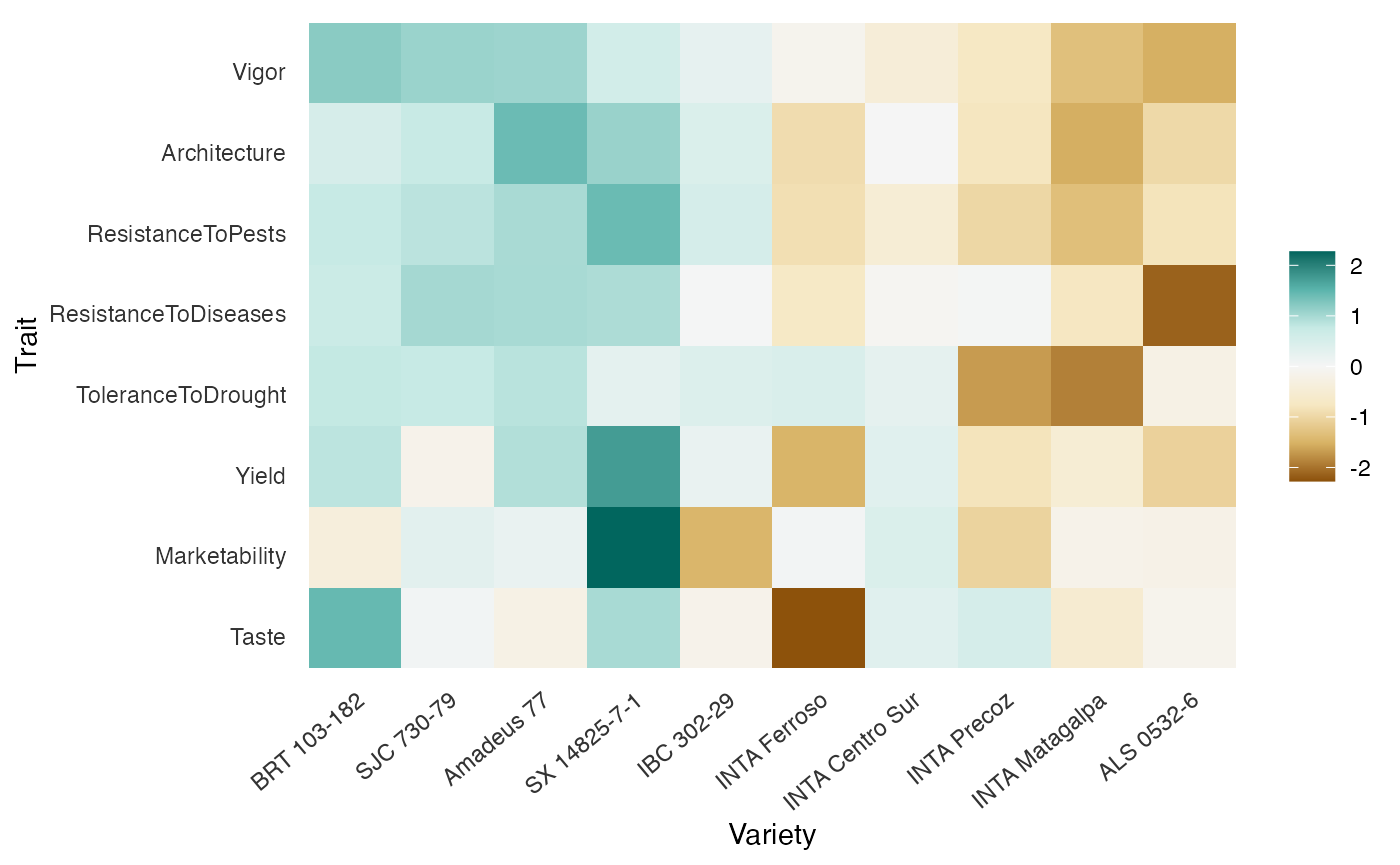
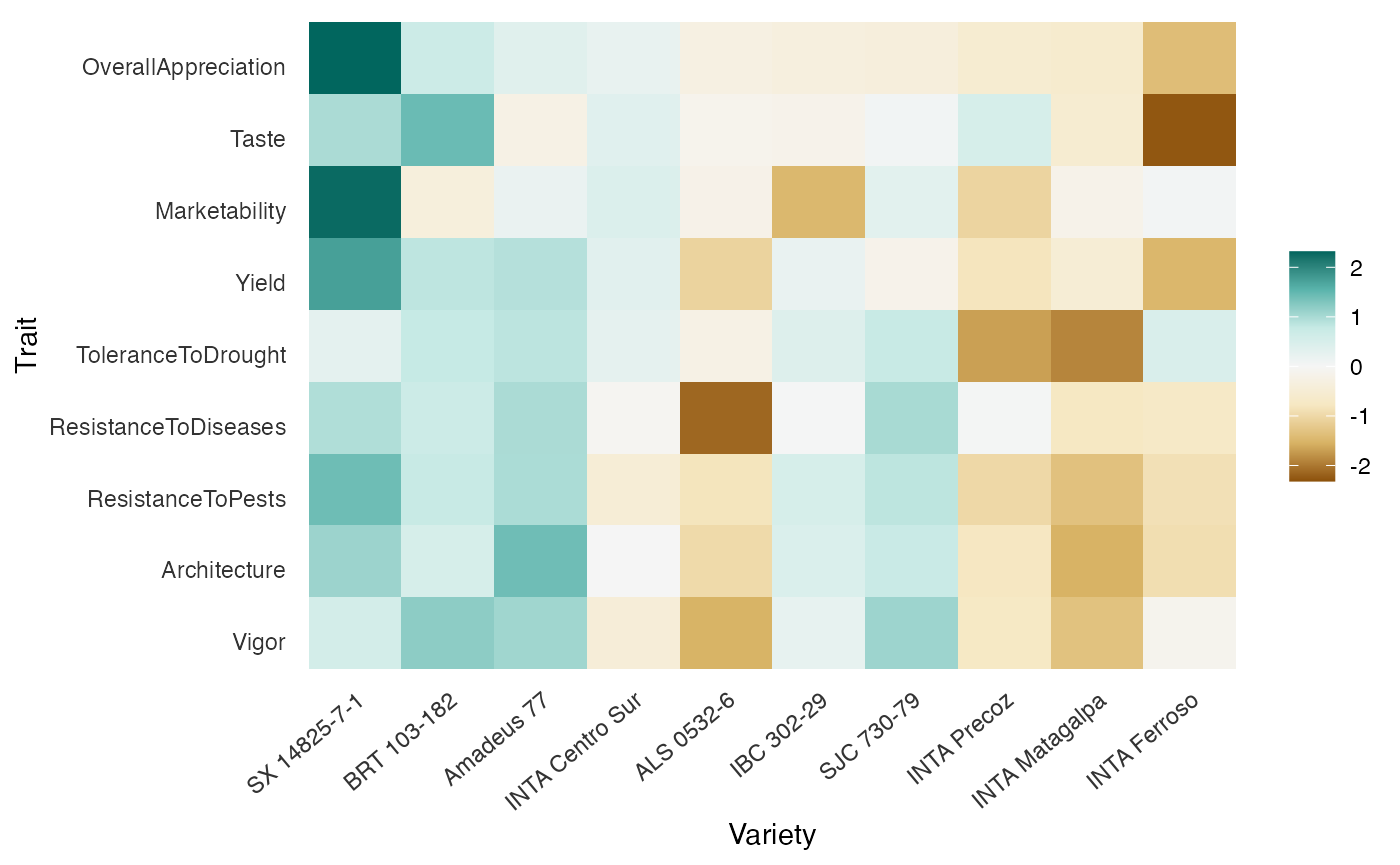
update-bean-vignette

diff --git a/docs/articles/vignette-1-trait-prioritization-and-crop-performance.html b/docs/articles/vignette-1-trait-prioritization-and-crop-performance.html
@@ -229,14 +229,42 @@ yield
 = 0.639) when assessing overall appreciation.</p>
 <pre><code><span><span class="co">##                   trait kendallTau N_effective Zvalue   Pr(&gt;|z|)</span></span>
 <span><span class="co">##                   &lt;chr&gt;      &lt;dbl&gt;       &lt;dbl&gt;  &lt;dbl&gt;      &lt;chr&gt;</span></span>
-<span><span class="co">## 1:                Vigor     0.4390     58.3120 4.8780 5.3630e-07</span></span>
 <span><span class="co">## 2:         Architecture     0.3930     58.3120 4.3720 6.1534e-06</span></span>
-<span><span class="co">## 3:    ResistanceToPests     0.4630     58.3120 5.1440 1.3446e-07</span></span>
-<span><span class="co">## 4: ResistanceToDiseases     0.4490     58.3120 4.9980 2.9022e-07</span></span>
 <span><span class="co">## 5:   ToleranceToDrought     0.4110     58.3120 4.5720 2.4187e-06</span></span>
-<span><span class="co">## 6:                Yield     0.7490     58.3120 8.3250 4.2193e-17</span></span>
+<span><span class="co">## 1:                Vigor     0.4390     58.3120 4.8780 5.3630e-07</span></span>
+<span><span class="co">## 4: ResistanceToDiseases     0.4490     58.3120 4.9980 2.9022e-07</span></span>
+<span><span class="co">## 3:    ResistanceToPests     0.4630     58.3120 5.1440 1.3446e-07</span></span>
 <span><span class="co">## 7:        Marketability     0.6390     58.3120 7.1000 6.2167e-13</span></span>
-<span><span class="co">## 8:                Taste     0.6530     58.3120 7.2600 1.9329e-13</span></span></code></pre>
+<span><span class="co">## 8:                Taste     0.6530     58.3120 7.2600 1.9329e-13</span></span>
+<span><span class="co">## 6:                Yield     0.7490     58.3120 8.3250 4.2193e-17</span></span></code></pre>
+<p>We can visualize the distances and the distribution of the kendall
+correlation coefficients. For that we use the function
+<code>kendallTau_boostrap()</code> which resamples the data using a
+bootstrapping approach to draw an uniform distribution in the data.</p>
+<div class="sourceCode" id="cb6"><pre class="downlit sourceCode r">
+<code class="sourceCode R"><span><span class="co"># lapply the bootstrap function and draw 50 data points</span></span>
+<span><span class="va">kendall</span> <span class="op">=</span> <span class="fu"><a href="https://rdrr.io/r/base/lapply.html" class="external-link">lapply</a></span><span class="op">(</span><span class="va">R</span><span class="op">[</span><span class="op">-</span><span class="va">baseline</span><span class="op">]</span>, <span class="kw">function</span><span class="op">(</span><span class="va">x</span><span class="op">)</span><span class="op">{</span></span>
+<span>  <span class="fu"><a href="../reference/kendallTau.html">kendallTau_bootstrap</a></span><span class="op">(</span><span class="va">x</span>, </span>
+<span>                       <span class="va">R</span><span class="op">[[</span><span class="va">baseline</span><span class="op">]</span><span class="op">]</span>,</span>
+<span>                       nboot <span class="op">=</span> <span class="fl">50</span>,</span>
+<span>                       seed <span class="op">=</span> <span class="fl">1206</span><span class="op">)</span></span>
+<span><span class="op">}</span><span class="op">)</span></span>
+<span></span>
+<span><span class="co"># put it in a data.frame</span></span>
+<span><span class="va">kendall</span> <span class="op">=</span> <span class="fu"><a href="https://rdrr.io/r/base/data.frame.html" class="external-link">data.frame</a></span><span class="op">(</span>trait <span class="op">=</span> <span class="fu"><a href="https://rdrr.io/r/base/rep.html" class="external-link">rep</a></span><span class="op">(</span><span class="va">traits</span><span class="op">[</span><span class="op">-</span><span class="va">baseline</span><span class="op">]</span>, each <span class="op">=</span> <span class="fl">50</span><span class="op">)</span>,</span>
+<span>                     kendallTau <span class="op">=</span> <span class="fu"><a href="https://rdrr.io/r/base/unlist.html" class="external-link">unlist</a></span><span class="op">(</span><span class="va">kendall</span><span class="op">)</span><span class="op">)</span></span>
+<span></span>
+<span><span class="co"># define levels of traits to sort them out from highest to lowest kendall tau</span></span>
+<span><span class="va">lvls</span> <span class="op">=</span> <span class="fu"><a href="https://rdrr.io/r/base/unique.html" class="external-link">unique</a></span><span class="op">(</span><span class="va">kendall</span><span class="op">$</span><span class="va">trait</span><span class="op">[</span><span class="fu"><a href="https://rdrr.io/r/base/order.html" class="external-link">order</a></span><span class="op">(</span><span class="va">kendall</span><span class="op">$</span><span class="va">kendallTau</span><span class="op">)</span><span class="op">]</span><span class="op">)</span></span>
+<span></span>
+<span><span class="va">kendall</span><span class="op">$</span><span class="va">trait</span> <span class="op">=</span> <span class="fu"><a href="https://rdrr.io/r/base/factor.html" class="external-link">factor</a></span><span class="op">(</span><span class="va">kendall</span><span class="op">$</span><span class="va">trait</span>, levels <span class="op">=</span> <span class="va">lvls</span><span class="op">)</span></span>
+<span></span>
+<span><span class="co"># plot the coefficients </span></span>
+<span><span class="fu"><a href="https://ggplot2.tidyverse.org/reference/ggplot.html" class="external-link">ggplot</a></span><span class="op">(</span><span class="va">kendall</span>, <span class="fu"><a href="https://ggplot2.tidyverse.org/reference/aes.html" class="external-link">aes</a></span><span class="op">(</span>y <span class="op">=</span> <span class="va">trait</span>, x <span class="op">=</span> <span class="va">kendallTau</span><span class="op">)</span><span class="op">)</span> <span class="op">+</span></span>
+<span>  <span class="fu"><a href="https://ggplot2.tidyverse.org/reference/geom_boxplot.html" class="external-link">geom_boxplot</a></span><span class="op">(</span><span class="op">)</span> <span class="op">+</span></span>
+<span>  <span class="fu"><a href="https://ggplot2.tidyverse.org/reference/labs.html" class="external-link">labs</a></span><span class="op">(</span>y <span class="op">=</span> <span class="st">""</span>, x <span class="op">=</span> <span class="st">"Correlation with the 'Overall appreciation'"</span><span class="op">)</span> <span class="op">+</span></span>
+<span>  <span class="fu"><a href="https://ggplot2.tidyverse.org/reference/ggtheme.html" class="external-link">theme_minimal</a></span><span class="op">(</span><span class="op">)</span></span></code></pre></div>
+<p><img src="vignette-1-trait-prioritization-and-crop-performance_files/figure-html/kendall_boost-1.png" width="700"></p>
 </div>
 <div class="section level2">
 <h2 id="performance-of-varieties-across-traits">Performance of varieties across traits<a class="anchor" aria-label="anchor" href="#performance-of-varieties-across-traits"></a>
@@ -245,7 +273,7 @@ yield
 <code><a href="https://hturner.github.io/PlackettLuce/reference/PlackettLuce.html" class="external-link">PlackettLuce()</a></code> from the package of the same name. This
 enables us to continue analyzing the trial data using other functions
 available in the gosset package.</p>
-<div class="sourceCode" id="cb6"><pre class="downlit sourceCode r">
+<div class="sourceCode" id="cb7"><pre class="downlit sourceCode r">
 <code class="sourceCode R"><span><span class="va">mod</span> <span class="op">=</span> <span class="fu"><a href="https://rdrr.io/r/base/lapply.html" class="external-link">lapply</a></span><span class="op">(</span><span class="va">R</span>, <span class="va">PlackettLuce</span><span class="op">)</span></span></code></pre></div>
 <p>The <code><a href="../reference/worth_map.html">worth_map()</a></code> function provides a visual tool to
 assess and compare variety performance across different traits. The
@@ -253,10 +281,10 @@ values represented in a worth map are <em>log-worth</em> estimates. From
 a breeder or product developer perspective, the function
 <code><a href="../reference/worth_map.html">worth_map()</a></code> is a valuable tool for identifying variety
 performance across multiple traits and selecting crossing materials.</p>
-<div class="sourceCode" id="cb7"><pre class="downlit sourceCode r">
-<code class="sourceCode R"><span><span class="fu"><a href="../reference/worth_map.html">worth_map</a></span><span class="op">(</span><span class="va">mod</span><span class="op">[</span><span class="op">-</span><span class="va">baseline</span><span class="op">]</span>,</span>
-<span>          labels <span class="op">=</span> <span class="va">traits</span><span class="op">[</span><span class="op">-</span><span class="va">baseline</span><span class="op">]</span>,</span>
-<span>          ref <span class="op">=</span> <span class="st">"Amadeus 77"</span><span class="op">)</span> <span class="op">+</span></span>
+<div class="sourceCode" id="cb8"><pre class="downlit sourceCode r">
+<code class="sourceCode R"><span><span class="fu"><a href="../reference/worth_map.html">worth_map</a></span><span class="op">(</span><span class="va">mod</span>,</span>
+<span>          labels <span class="op">=</span> <span class="va">traits</span>,</span>
+<span>          labels.order <span class="op">=</span> <span class="fu"><a href="https://rdrr.io/r/base/rev.html" class="external-link">rev</a></span><span class="op">(</span><span class="va">traits</span><span class="op">)</span><span class="op">)</span> <span class="op">+</span></span>
 <span>  <span class="fu"><a href="https://ggplot2.tidyverse.org/reference/labs.html" class="external-link">labs</a></span><span class="op">(</span>x <span class="op">=</span> <span class="st">"Variety"</span>,</span>
 <span>       y <span class="op">=</span> <span class="st">"Trait"</span><span class="op">)</span></span></code></pre></div>
 <p><img src="vignette-1-trait-prioritization-and-crop-performance_files/figure-html/worthmap-1.png" width="700"></p>
@@ -277,7 +305,7 @@ al. (2019) <span class="citation">[10]</span>, de Sousa et al. (2021)
 <p>The CHIRPS data is requested via the <code>chirps</code> package, and
 the returned data should be formatted as a matrix. Note that this
 process may take several minutes to complete.</p>
-<div class="sourceCode" id="cb8"><pre class="downlit sourceCode r">
+<div class="sourceCode" id="cb9"><pre class="downlit sourceCode r">
 <code class="sourceCode R"><span><span class="va">dates</span> <span class="op">=</span> <span class="fu"><a href="https://rdrr.io/r/base/c.html" class="external-link">c</a></span><span class="op">(</span><span class="fu"><a href="https://rdrr.io/r/base/Extremes.html" class="external-link">min</a></span><span class="op">(</span><span class="va">covar</span><span class="op">[</span>, <span class="st">"planting_date"</span><span class="op">]</span><span class="op">)</span>,</span>
 <span>           <span class="fu"><a href="https://rdrr.io/r/base/Extremes.html" class="external-link">max</a></span><span class="op">(</span><span class="va">covar</span><span class="op">[</span>, <span class="st">"planting_date"</span><span class="op">]</span><span class="op">)</span> <span class="op">+</span> <span class="fl">70</span><span class="op">)</span></span>
 <span></span>
@@ -288,7 +316,7 @@ process may take several minutes to complete.</p>
 <p>We compute the rainfall indices for the period from the planting date
 to the first 45 days of plant growth using the <code><a href="https://agrdatasci.github.io/climatrends/reference/rainfall.html" class="external-link">rainfall()</a></code>
 function from the climatrends package <span class="citation">[13]</span>.</p>
-<div class="sourceCode" id="cb9"><pre class="downlit sourceCode r">
+<div class="sourceCode" id="cb10"><pre class="downlit sourceCode r">
 <code class="sourceCode R"><span><span class="va">newnames</span> <span class="op">=</span> <span class="fu"><a href="https://rdrr.io/r/base/dimnames.html" class="external-link">dimnames</a></span><span class="op">(</span><span class="va">chirps</span><span class="op">)</span><span class="op">[[</span><span class="fl">2</span><span class="op">]</span><span class="op">]</span></span>
 <span><span class="va">newnames</span> <span class="op">=</span> <span class="fu"><a href="https://rdrr.io/r/base/grep.html" class="external-link">gsub</a></span><span class="op">(</span><span class="st">"chirps-v2.0."</span>, <span class="st">""</span>, <span class="va">newnames</span><span class="op">)</span></span>
 <span><span class="va">newnames</span> <span class="op">=</span> <span class="fu"><a href="https://rdrr.io/r/base/grep.html" class="external-link">gsub</a></span><span class="op">(</span><span class="st">"[.]"</span>, <span class="st">"-"</span>, <span class="va">newnames</span><span class="op">)</span></span>
@@ -300,7 +328,7 @@ function from the climatrends package <span class="citation">[13]</span>.</p>
 ‘grouped_rankings’ object. This is done using the <code><a href="https://hturner.github.io/PlackettLuce/reference/group.html" class="external-link">group()</a></code>
 function from the PlackettLuce package. For this example, we retain only
 the rankings corresponding to yield.</p>
-<div class="sourceCode" id="cb10"><pre class="downlit sourceCode r">
+<div class="sourceCode" id="cb11"><pre class="downlit sourceCode r">
 <code class="sourceCode R"><span><span class="va">yield</span> <span class="op">=</span> <span class="fu"><a href="https://rdrr.io/r/base/which.html" class="external-link">which</a></span><span class="op">(</span><span class="fu"><a href="https://rdrr.io/r/base/grep.html" class="external-link">grepl</a></span><span class="op">(</span><span class="st">"Yield"</span>, <span class="va">traits</span><span class="op">)</span><span class="op">)</span></span>
 <span></span>
 <span><span class="va">G</span> <span class="op">=</span> <span class="fu"><a href="https://hturner.github.io/PlackettLuce/reference/group.html" class="external-link">group</a></span><span class="op">(</span><span class="va">R</span><span class="op">[[</span><span class="va">yield</span><span class="op">]</span><span class="op">]</span>, index <span class="op">=</span> <span class="fl">1</span><span class="op">:</span><span class="fu"><a href="https://rdrr.io/r/base/length.html" class="external-link">length</a></span><span class="op">(</span><span class="va">R</span><span class="op">[[</span><span class="va">yield</span><span class="op">]</span><span class="op">]</span><span class="op">)</span><span class="op">)</span></span>
@@ -311,7 +339,7 @@ the rankings corresponding to yield.</p>
 <span><span class="co">##                      4                      5                      6 </span></span>
 <span><span class="co">## "BRT 103-182 &gt; IB ..." "BRT 103-182 &gt; IB ..." "BRT 103-182 &gt; AL ..."</span></span></code></pre>
 <p>Now we fit a Plackett-Luce tree with the climate covariates.</p>
-<div class="sourceCode" id="cb12"><pre class="downlit sourceCode r">
+<div class="sourceCode" id="cb13"><pre class="downlit sourceCode r">
 <code class="sourceCode R"><span><span class="va">pldG</span> <span class="op">=</span> <span class="fu"><a href="https://rdrr.io/r/base/cbind.html" class="external-link">cbind</a></span><span class="op">(</span><span class="va">G</span>, <span class="va">rain</span><span class="op">)</span></span>
 <span></span>
 <span><span class="va">tree</span> <span class="op">=</span> <span class="fu"><a href="https://hturner.github.io/PlackettLuce/reference/pltree.html" class="external-link">pltree</a></span><span class="op">(</span><span class="va">G</span> <span class="op">~</span> <span class="va">Rtotal</span>, data <span class="op">=</span> <span class="va">pldG</span>, alpha <span class="op">=</span> <span class="fl">0.1</span><span class="op">)</span></span>
@@ -345,21 +373,21 @@ the rankings corresponding to yield.</p>
 <code><a href="../reference/node_labels.html">top_items()</a></code> can be used to identify the splitting variables
 in the tree, the rules applied at each split, and the top-performing
 items in each node.</p>
-<div class="sourceCode" id="cb14"><pre class="downlit sourceCode r">
+<div class="sourceCode" id="cb15"><pre class="downlit sourceCode r">
 <code class="sourceCode R"><span><span class="fu"><a href="../reference/node_labels.html">node_labels</a></span><span class="op">(</span><span class="va">tree</span><span class="op">)</span></span></code></pre></div>
 <pre><code><span><span class="co">## [1] "Rtotal"</span></span></code></pre>
-<div class="sourceCode" id="cb16"><pre class="downlit sourceCode r">
+<div class="sourceCode" id="cb17"><pre class="downlit sourceCode r">
 <code class="sourceCode R"><span><span class="fu"><a href="../reference/node_labels.html">node_rules</a></span><span class="op">(</span><span class="va">tree</span><span class="op">)</span></span></code></pre></div>
 <pre><code><span><span class="co">##   node                      rules</span></span>
 <span><span class="co">## 1    2 Rtotal &lt;= 193.815301895142</span></span>
 <span><span class="co">## 2    3  Rtotal &gt; 193.815301895142</span></span></code></pre>
-<div class="sourceCode" id="cb18"><pre class="downlit sourceCode r">
+<div class="sourceCode" id="cb19"><pre class="downlit sourceCode r">
 <code class="sourceCode R"><span><span class="fu"><a href="../reference/node_labels.html">top_items</a></span><span class="op">(</span><span class="va">tree</span>, top <span class="op">=</span> <span class="fl">3</span><span class="op">)</span></span></code></pre></div>
 <pre><code><span><span class="co">##          Node2        Node3</span></span>
 <span><span class="co">## 1  BRT 103-182   ALS 0532-6</span></span>
 <span><span class="co">## 2 SX 14825-7-1 SX 14825-7-1</span></span>
 <span><span class="co">## 3   IBC 302-29   Amadeus 77</span></span></code></pre>
-<div class="sourceCode" id="cb20"><pre class="downlit sourceCode r">
+<div class="sourceCode" id="cb21"><pre class="downlit sourceCode r">
 <code class="sourceCode R"><span><span class="fu"><a href="https://rdrr.io/r/graphics/plot.default.html" class="external-link">plot</a></span><span class="op">(</span><span class="va">tree</span>, ref <span class="op">=</span> <span class="st">"Amadeus 77"</span><span class="op">)</span></span></code></pre></div>
 <p><img src="vignette-1-trait-prioritization-and-crop-performance_files/figure-html/node_info2-1.png" width="700"></p>
 </div>
@@ -374,7 +402,7 @@ probability of outperforming a variety check (Amadeus 77). For
 simplicity, we present only the varieties with a reliability score
 <math display="inline" xmlns="http://www.w3.org/1998/Math/MathML"><semantics><mo>≥</mo><annotation encoding="application/x-tex">\geq</annotation></semantics></math>
 0.5.</p>
-<div class="sourceCode" id="cb21"><pre class="downlit sourceCode r">
+<div class="sourceCode" id="cb22"><pre class="downlit sourceCode r">
 <code class="sourceCode R"><span><span class="fu"><a href="../reference/reliability.html">reliability</a></span><span class="op">(</span><span class="va">tree</span>, ref <span class="op">=</span> <span class="st">"Amadeus 77"</span><span class="op">)</span></span></code></pre></div>
 <pre><code><span><span class="co">##      node         item reliability reliabilitySE  worth</span></span>
 <span><span class="co">##     &lt;int&gt;        &lt;chr&gt;       &lt;dbl&gt;         &lt;dbl&gt;  &lt;dbl&gt;</span></span>
@@ -413,7 +441,7 @@ the method proposed by Bland and Altman (1986) <span class="citation">[16]</span
 different measures. Here, we compare overall appreciation and yield. If
 both measures completely agree, all the varieties should be centered at
 0 on the Y-axis.</p>
-<div class="sourceCode" id="cb23"><pre class="downlit sourceCode r">
+<div class="sourceCode" id="cb24"><pre class="downlit sourceCode r">
 <code class="sourceCode R"><span><span class="va">Overall</span> <span class="op">=</span> <span class="fu"><a href="https://hturner.github.io/PlackettLuce/reference/PlackettLuce.html" class="external-link">PlackettLuce</a></span><span class="op">(</span><span class="va">R</span><span class="op">[[</span><span class="va">baseline</span><span class="op">]</span><span class="op">]</span><span class="op">)</span></span>
 <span><span class="va">Yield</span> <span class="op">=</span> <span class="fu"><a href="https://hturner.github.io/PlackettLuce/reference/PlackettLuce.html" class="external-link">PlackettLuce</a></span><span class="op">(</span><span class="va">R</span><span class="op">[[</span><span class="va">yield</span><span class="op">]</span><span class="op">]</span><span class="op">)</span></span>
 <span></span>

diff --git a/docs/reference/kendallTau.html b/docs/reference/kendallTau.html
@@ -6,7 +6,9 @@ hypothesis test for statistical dependence based on the tau coefficient.
 The 'kendallTau' function applies the &quot;kendall&quot; method from 'stats::cor'
 with some previous treatment in the data, such as converting floating numbers
 into ranks (from the higher being the first and negative being the last)
-and the possibility to remove zeros from incomplete ranks"><meta property="og:image" content="/logo.png"><!-- mathjax --><script src="https://cdnjs.cloudflare.com/ajax/libs/mathjax/2.7.5/MathJax.js" integrity="sha256-nvJJv9wWKEm88qvoQl9ekL2J+k/RWIsaSScxxlsrv8k=" crossorigin="anonymous"></script><script src="https://cdnjs.cloudflare.com/ajax/libs/mathjax/2.7.5/config/TeX-AMS-MML_HTMLorMML.js" integrity="sha256-84DKXVJXs0/F8OTMzX4UR909+jtl4G7SPypPavF+GfA=" crossorigin="anonymous"></script><!--[if lt IE 9]>
+and the possibility to remove zeros from incomplete ranks
+Perform a pairwise permutation test to assess statistical differences
+in Kendall's Tau correlation between two or more groups."><meta property="og:image" content="/logo.png"><!-- mathjax --><script src="https://cdnjs.cloudflare.com/ajax/libs/mathjax/2.7.5/MathJax.js" integrity="sha256-nvJJv9wWKEm88qvoQl9ekL2J+k/RWIsaSScxxlsrv8k=" crossorigin="anonymous"></script><script src="https://cdnjs.cloudflare.com/ajax/libs/mathjax/2.7.5/config/TeX-AMS-MML_HTMLorMML.js" integrity="sha256-84DKXVJXs0/F8OTMzX4UR909+jtl4G7SPypPavF+GfA=" crossorigin="anonymous"></script><!--[if lt IE 9]>
 <script src="https://oss.maxcdn.com/html5shiv/3.7.3/html5shiv.min.js"></script>
 <script src="https://oss.maxcdn.com/respond/1.4.2/respond.min.js"></script>
 <![endif]--></head><body data-spy="scroll" data-target="#toc">
@@ -64,7 +66,7 @@ and the possibility to remove zeros from incomplete ranks"><meta property="og:im
   <div class="col-md-9 contents">
     <div class="page-header">
     <h1>Kendall rank correlation coefficient</h1>
-    <small class="dont-index">Source: <a href="https://github.com/agrdatasci/gosset/blob/HEAD/R/kendallTau.R" class="external-link"><code>R/kendallTau.R</code></a></small>
+    <small class="dont-index">Source: <a href="https://github.com/agrdatasci/gosset/blob/HEAD/R/kendallTau.R" class="external-link"><code>R/kendallTau.R</code></a>, <a href="https://github.com/agrdatasci/gosset/blob/HEAD/R/kendall_permute.R" class="external-link"><code>R/kendall_permute.R</code></a></small>
     <div class="hidden name"><code>kendallTau.Rd</code></div>
     </div>
 
@@ -77,6 +79,8 @@ The 'kendallTau' function applies the "kendall" method from 'stats::cor'
 with some previous treatment in the data, such as converting floating numbers
 into ranks (from the higher being the first and negative being the last)
 and the possibility to remove zeros from incomplete ranks</p>
+<p>Perform a pairwise permutation test to assess statistical differences
+in Kendall's Tau correlation between two or more groups.</p>
     </div>
 
     <div id="ref-usage">
@@ -95,7 +99,11 @@ and the possibility to remove zeros from incomplete ranks</p>
 <span><span class="fu">kendallTau</span><span class="op">(</span><span class="va">x</span>, <span class="va">y</span>, <span class="va">...</span><span class="op">)</span></span>
 <span></span>
 <span><span class="co"># S3 method for class 'paircomp'</span></span>
-<span><span class="fu">kendallTau</span><span class="op">(</span><span class="va">x</span>, <span class="va">y</span>, <span class="va">...</span><span class="op">)</span></span></code></pre></div>
+<span><span class="fu">kendallTau</span><span class="op">(</span><span class="va">x</span>, <span class="va">y</span>, <span class="va">...</span><span class="op">)</span></span>
+<span></span>
+<span><span class="fu">kendallTau_bootstrap</span><span class="op">(</span><span class="va">x</span>, <span class="va">y</span>, nboot <span class="op">=</span> <span class="fl">100</span>, seed <span class="op">=</span> <span class="cn">NULL</span>, <span class="va">...</span><span class="op">)</span></span>
+<span></span>
+<span><span class="fu">kendallTau_permute</span><span class="op">(</span><span class="va">x</span>, <span class="va">y</span>, <span class="va">split</span>, n.permutations <span class="op">=</span> <span class="fl">500</span><span class="op">)</span></span></code></pre></div>
     </div>
 
     <div id="arguments">
@@ -119,11 +127,29 @@ and the possibility to remove zeros from incomplete ranks</p>
 
 
 <dt id="arg-na-omit">na.omit<a class="anchor" aria-label="anchor" href="#arg-na-omit"></a></dt>
-<dd><p>logical, if <code>TRUE</code> ignores entries with kendall = NA when computing the average</p></dd>
+<dd><p>logical, if <code>TRUE</code> ignores entries with kendall = NA
+when computing the average</p></dd>
 
 
 <dt id="arg--">...<a class="anchor" aria-label="anchor" href="#arg--"></a></dt>
 <dd><p>further arguments affecting the Kendall tau produced. See details</p></dd>
+
+
+<dt id="arg-nboot">nboot<a class="anchor" aria-label="anchor" href="#arg-nboot"></a></dt>
+<dd><p>integer, the size of the bootstrap sample</p></dd>
+
+
+<dt id="arg-seed">seed<a class="anchor" aria-label="anchor" href="#arg-seed"></a></dt>
+<dd><p>integer, the seed for random number generation. If NULL (the default),
+gosset will set the seed randomly</p></dd>
+
+
+<dt id="arg-split">split<a class="anchor" aria-label="anchor" href="#arg-split"></a></dt>
+<dd><p>a vector indicating the splitting rule for the test</p></dd>
+
+
+<dt id="arg-n-permutations">n.permutations<a class="anchor" aria-label="anchor" href="#arg-n-permutations"></a></dt>
+<dd><p>an integer, the number of permutations to perform</p></dd>
 
 </dl></div>
     <div id="value">
@@ -131,7 +157,14 @@ and the possibility to remove zeros from incomplete ranks</p>
     <p>The Kendall correlation coefficient and the Effective N, which
 is the equivalent N needed if all items were compared to all items.
 Used for significance testing.</p>
-    </div>
+<p>A data.frame containing:</p>
+<dl><dt>observed_diff</dt>
+<dd><p>observed absolute differences in Kendall's tau for all group pairs.</p></dd>
+
+<dt>p_values</dt>
+<dd><p>p-values from the permutation test for all group pairs.</p></dd>
+
+</dl></div>
     <div id="references">
     <h2>References</h2>
     <p>Kendall M. G. (1938). Biometrika, 30(1–2), 81–93.
@@ -140,6 +173,7 @@ Used for significance testing.</p>
     <div id="see-also">
     <h2>See also</h2>
     <div class="dont-index"><p><code><a href="https://rdrr.io/r/stats/cor.html" class="external-link">cor</a></code></p>
+<p><code>kendallTau</code></p>
 <p>Other goodness-of-fit functions:
 <code><a href="kendallW.html">kendallW</a>()</code>,
 <code><a href="pseudoR2.html">pseudoR2</a>()</code></p></div>
@@ -147,6 +181,7 @@ Used for significance testing.</p>
     <div id="author">
     <h2>Author</h2>
     <p>Kauê de Sousa and Jacob van Etten</p>
+<p>Kauê de Sousa</p>
     </div>
 
     <div id="ref-examples">
@@ -201,7 +236,31 @@ Used for significance testing.</p>
 <span><span class="fu">kendallTau</span><span class="op">(</span><span class="va">R</span>, <span class="va">R2</span>, average <span class="op">=</span> <span class="cn">TRUE</span><span class="op">)</span></span>
 <span></span>
 <span><span class="fu">kendallTau</span><span class="op">(</span><span class="va">R</span>, <span class="va">R2</span>, average <span class="op">=</span> <span class="cn">TRUE</span>, na.omit <span class="op">=</span> <span class="cn">TRUE</span><span class="op">)</span></span>
-<span></span></code></pre></div>
+<span></span>
+<span><span class="kw">if</span> <span class="op">(</span><span class="cn">FALSE</span><span class="op">)</span> <span class="op">{</span> <span class="co"># interactive()</span></span>
+<span><span class="fu"><a href="https://rdrr.io/r/base/Random.html" class="external-link">set.seed</a></span><span class="op">(</span><span class="fl">42</span><span class="op">)</span></span>
+<span><span class="va">x</span> <span class="op">=</span> <span class="fu"><a href="https://rdrr.io/r/stats/Normal.html" class="external-link">rnorm</a></span><span class="op">(</span><span class="fl">100</span><span class="op">)</span></span>
+<span><span class="va">y</span> <span class="op">=</span> <span class="fu"><a href="https://rdrr.io/r/stats/Normal.html" class="external-link">rnorm</a></span><span class="op">(</span><span class="fl">100</span><span class="op">)</span></span>
+<span><span class="va">split</span> <span class="op">=</span> <span class="fu"><a href="https://rdrr.io/r/base/rep.html" class="external-link">rep</a></span><span class="op">(</span><span class="fu"><a href="https://rdrr.io/r/base/c.html" class="external-link">c</a></span><span class="op">(</span><span class="st">"Group1"</span>, <span class="st">"Group2"</span>, <span class="st">"Group3"</span><span class="op">)</span>, length.out <span class="op">=</span> <span class="fl">100</span><span class="op">)</span></span>
+<span><span class="fu">kendallTau_permute</span><span class="op">(</span><span class="va">x</span>, <span class="va">y</span>, <span class="va">split</span><span class="op">)</span></span>
+<span></span>
+<span><span class="fu"><a href="https://rdrr.io/r/utils/data.html" class="external-link">data</a></span><span class="op">(</span><span class="st">"breadwheat"</span>, package <span class="op">=</span> <span class="st">"gosset"</span><span class="op">)</span></span>
+<span></span>
+<span><span class="va">x</span> <span class="op">=</span> <span class="fu"><a href="rank_tricot.html">rank_tricot</a></span><span class="op">(</span><span class="va">breadwheat</span>, </span>
+<span>                items <span class="op">=</span> <span class="fu"><a href="https://rdrr.io/r/base/paste.html" class="external-link">paste0</a></span><span class="op">(</span><span class="st">"variety_"</span>, <span class="va">letters</span><span class="op">[</span><span class="fl">1</span><span class="op">:</span><span class="fl">3</span><span class="op">]</span><span class="op">)</span>,</span>
+<span>                input <span class="op">=</span> <span class="fu"><a href="https://rdrr.io/r/base/c.html" class="external-link">c</a></span><span class="op">(</span><span class="st">"yield_best"</span>, <span class="st">"yield_worst"</span><span class="op">)</span>,</span>
+<span>                validate.rankings <span class="op">=</span> <span class="cn">TRUE</span><span class="op">)</span></span>
+<span></span>
+<span><span class="va">y</span> <span class="op">=</span> <span class="fu"><a href="rank_tricot.html">rank_tricot</a></span><span class="op">(</span><span class="va">breadwheat</span>, </span>
+<span>                items <span class="op">=</span> <span class="fu"><a href="https://rdrr.io/r/base/paste.html" class="external-link">paste0</a></span><span class="op">(</span><span class="st">"variety_"</span>, <span class="va">letters</span><span class="op">[</span><span class="fl">1</span><span class="op">:</span><span class="fl">3</span><span class="op">]</span><span class="op">)</span>,</span>
+<span>                input <span class="op">=</span> <span class="fu"><a href="https://rdrr.io/r/base/c.html" class="external-link">c</a></span><span class="op">(</span><span class="st">"overall_best"</span>, <span class="st">"overall_worst"</span><span class="op">)</span>,</span>
+<span>                validate.rankings <span class="op">=</span> <span class="cn">TRUE</span><span class="op">)</span></span>
+<span>                </span>
+<span><span class="fu">kendallTau_permute</span><span class="op">(</span><span class="va">x</span>, <span class="va">y</span>, </span>
+<span>                split <span class="op">=</span> <span class="fu"><a href="https://rdrr.io/r/base/rep.html" class="external-link">rep</a></span><span class="op">(</span><span class="fu"><a href="https://rdrr.io/r/base/c.html" class="external-link">c</a></span><span class="op">(</span><span class="st">"Group1"</span>, <span class="st">"Group2"</span>, <span class="st">"Group3"</span><span class="op">)</span>, length.out <span class="op">=</span> <span class="fu"><a href="https://rdrr.io/r/base/nrow.html" class="external-link">nrow</a></span><span class="op">(</span><span class="va">breadwheat</span><span class="op">)</span><span class="op">)</span>, </span>
+<span>                n.permutations <span class="op">=</span> <span class="fl">100</span><span class="op">)</span></span>
+<span>                </span>
+<span><span class="op">}</span></span></code></pre></div>
     </div>
   </div>
   <div class="col-md-3 hidden-xs hidden-sm" id="pkgdown-sidebar">

diff --git a/docs/news/index.html b/docs/news/index.html
@@ -61,16 +61,21 @@
     </div>
 
     <div class="section level2">
-<h2 class="page-header" data-toc-text="1.4" id="gosset-14-2024-11-23">gosset 1.4 (2024-11-23)<a class="anchor" aria-label="anchor" href="#gosset-14-2024-11-23"></a></h2>
+<h2 class="page-header" data-toc-text="1.4" id="gosset-14-2024-12-04">gosset 1.4 (2024-12-04)<a class="anchor" aria-label="anchor" href="#gosset-14-2024-12-04"></a></h2>
 <div class="section level4">
 <h4 id="improvements-1-4">IMPROVEMENTS<a class="anchor" aria-label="anchor" href="#improvements-1-4"></a></h4>
-<ul><li>manage levels in <code><a href="../reference/node_labels.html">plot.pltree()</a></code>
+<ul><li>manage factor levels in <code><a href="../reference/node_labels.html">plot.pltree()</a></code>
+</li>
+<li>introduces the functions <code><a href="../reference/kendallTau.html">kendallTau_permute()</a></code> and <code><a href="../reference/kendallTau.html">kendallTau_bootstrap()</a></code>
 </li>
 <li>adds S3 method to plot PlackettLuce objects using <code><a href="../reference/node_labels.html">plot.PlackettLuce()</a></code>
 </li>
 <li>adds <code>cassava</code> to the datasets</li>
-<li>adds cassava consumer testing data and new vignette</li>
+<li>adds <code>cassava</code> consumer testing data and new vignette</li>
 <li>improves readability of common bean vignette</li>
+<li>coefficients from <code><a href="../reference/worth_map.html">worth_map()</a></code> are extracted using <code><a href="https://rdrr.io/r/stats/coef.html" class="external-link">stats::coefficients()</a></code> instead of <code><a href="https://rdrr.io/pkg/psychotools/man/itempar.html" class="external-link">psychotools::itempar()</a></code>
+</li>
+<li>update the bean vignette</li>
 </ul></div>
 </div>
     <div class="section level2">

diff --git a/docs/reference/index.html b/docs/reference/index.html
@@ -92,17 +92,13 @@
         </td>
         <td><p>Tools for Data Analysis in Experimental Agriculture</p></td>
       </tr><tr><td>
-          <p><code><a href="kendallTau.html">kendallTau()</a></code> </p>
+          <p><code><a href="kendallTau.html">kendallTau()</a></code> <code><a href="kendallTau.html">kendallTau_bootstrap()</a></code> <code><a href="kendallTau.html">kendallTau_permute()</a></code> </p>
         </td>
         <td><p>Kendall rank correlation coefficient</p></td>
       </tr><tr><td>
           <p><code><a href="kendallW.html">kendallW()</a></code> </p>
         </td>
         <td><p>Kendall's W (coefficient of concordance)</p></td>
-      </tr><tr><td>
-          <p><code><a href="kendall_permute.html">kendall_permute()</a></code> </p>
-        </td>
-        <td><p>Kendall's tau permutation test</p></td>
       </tr><tr><td>
           <p><code><a href="kenyachoice.html">kenyachoice</a></code> </p>
         </td>

diff --git a/NEWS.md b/NEWS.md
@@ -3,13 +3,15 @@ gosset 1.4 (2024-12-04)
 
 ### IMPROVEMENTS
 
-* manage levels in `plot.pltree()`
+* manage factor levels in `plot.pltree()`
+* introduces the functions `kendallTau_permute()` and `kendallTau_bootstrap()`
 * adds S3 method to plot PlackettLuce objects using `plot.PlackettLuce()`
 * adds `cassava` to the datasets
 * adds `cassava` consumer testing data and new vignette
 * improves readability of common bean vignette
 * coefficients from `worth_map()` are extracted using `stats::coefficients()` instead of `psychotools::itempar()`
 * update the bean vignette
+
 
 gosset 1.3 (2024-05-26)
 =========================
